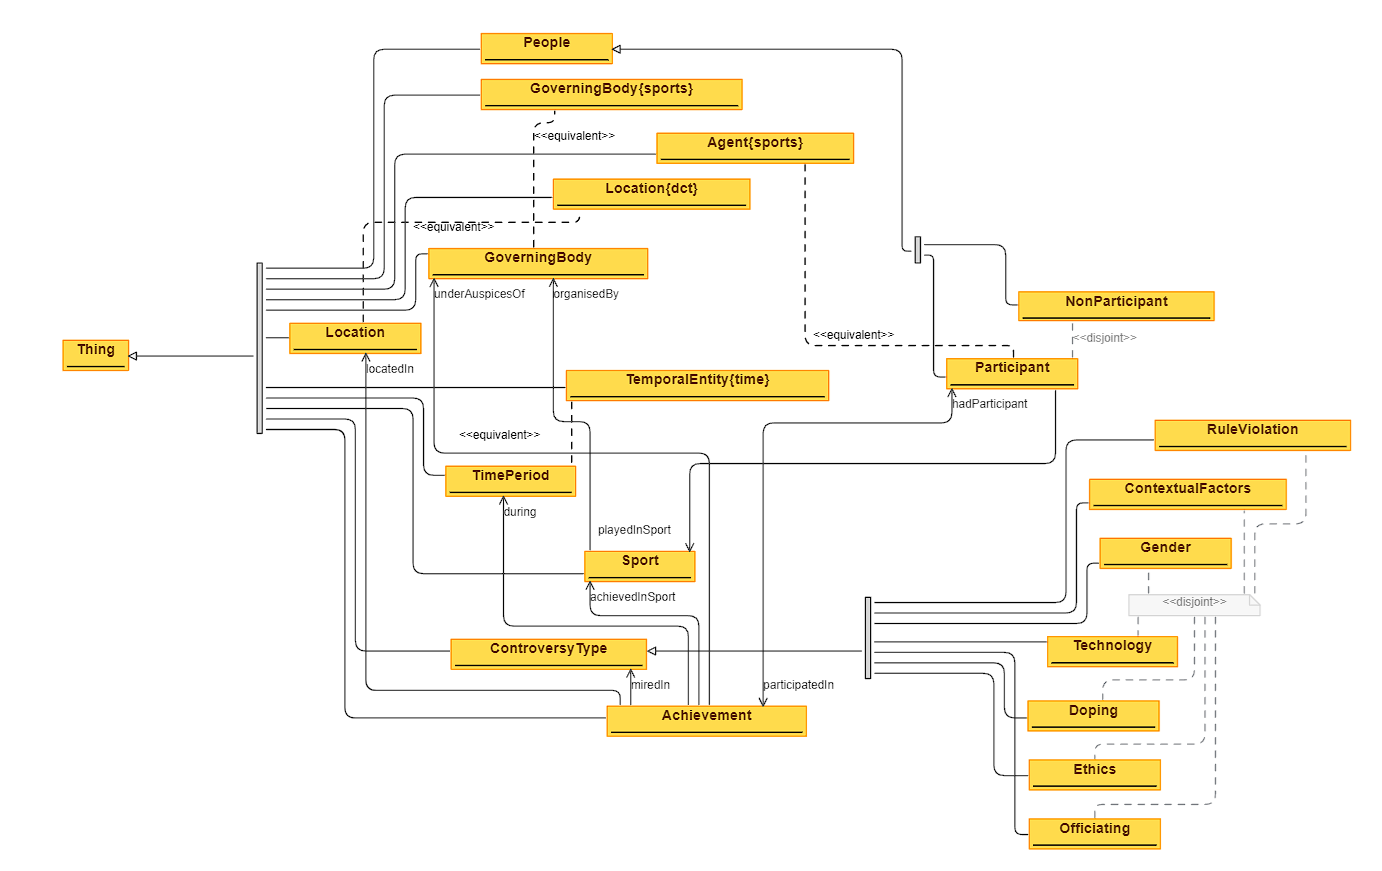
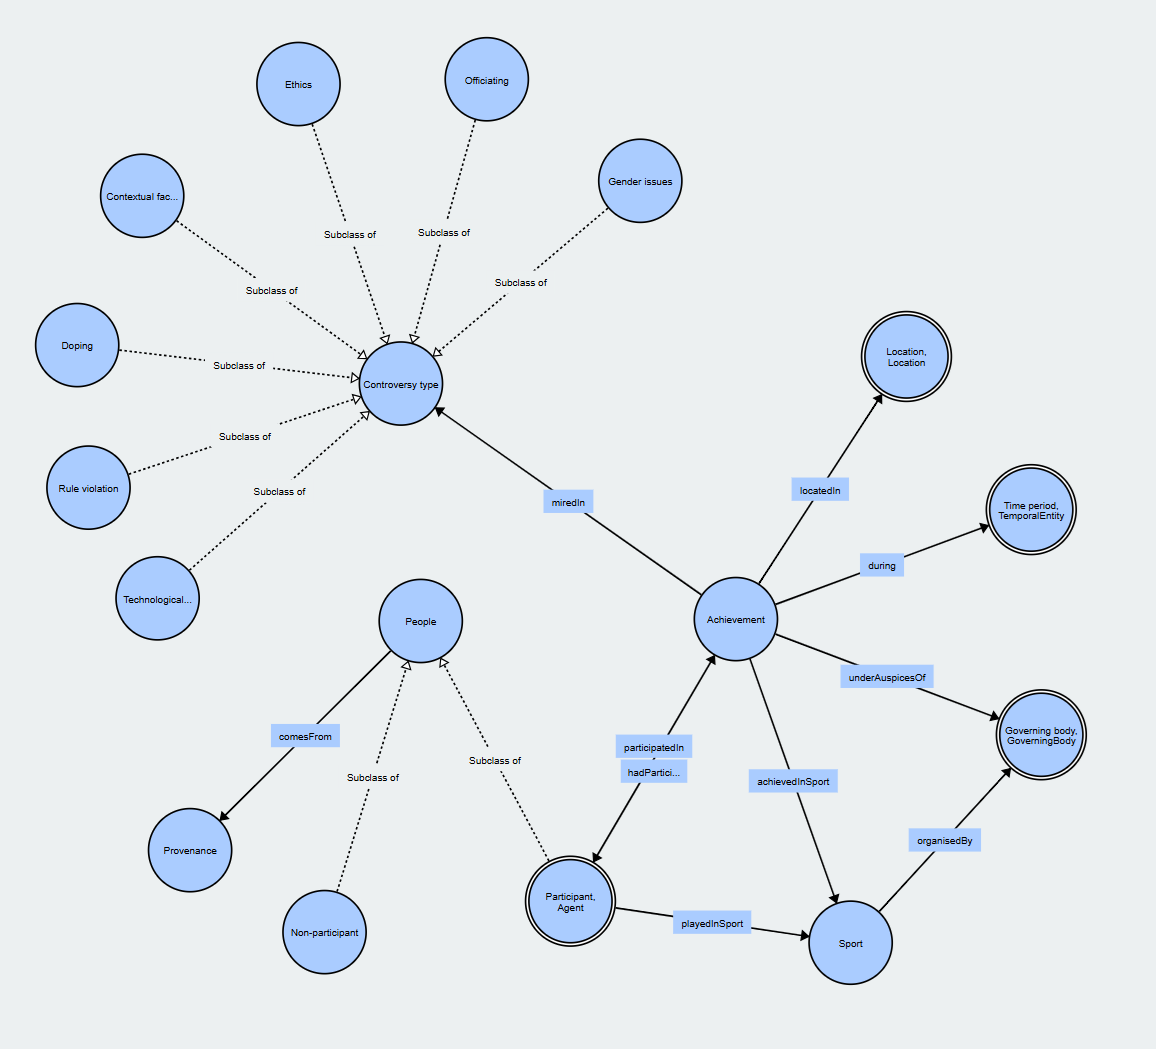
implemented discussed changes to ontology, new diagram and links because the old website died in the meantime

diff --git a/index.html b/index.html
@@ -343,6 +343,8 @@
                             <p>Represents the singular physical location (if possible), or a broader geographical context, where an <b>Achievement</b> has taken place.</p>
                             <ul><li><b>TimePeriod</b></li></ul>
                             <p>Represents the timeframe, when an <b>Achievement</b> has taken place.</p>
+                            <ul><li><b>Provenance</b></li></ul>
+                            <p>Represents the provenance of <b>People</b>.</p>
                             <h6>Properties</h6>
                             <ul><li><b>hadParticipant (Achievement -> Participant)</b></li></ul>
                             <p>Links a sporting accomplishment to a sportsperson or sportspeople.</p>
@@ -362,9 +364,11 @@
                             <p>Links a sporting accomplishment to a geographical location or region it was achieved in.</p>
                             <ul><li><b>during (Achievement -> TimePeriod)</b></li></ul>
                             <p>Links a sporting accomplishment to a time period it was achieved in.</p>
+                            <ul><li><b>comesFrom (People -> Provenance)</b></li></ul>
+                            <p>Links a participant or a non-participant to a place, from which they come from.</p>
                             <h5>2.1.3 - Basic ontology creation</h5>
                             <img src="img/ontologyv1.png" alt="Visualisation of the first-level ontology" height="97%" width="97%">
-                            <p> Visualisation also available <a target="_blank" href="http://owlgred.lumii.lv/online_visualization/zwaw">here</a>. The corresponding prefixes are:<br>
+                            <p> Visualisation also available <a target="_blank" href="https://service.tib.eu/webvowl/#iri=https://raw.githubusercontent.com/krzywonos/asterisks-in-sports/refs/heads/main/ontologies/asterisksinsports.rdf">here</a>. The corresponding prefixes are:<br>
                             <sub>: <i>http://www.semanticweb.org/ontologies/2024/asterisksinsports</i></sub><br>
                             <sub>dct: <i>http://purl.org/dc/terms/</i></sub><br>
                             <sub>sports: <i>https://sportschema.org/ontologies/main/</i></sub><br>
@@ -384,40 +388,16 @@
                                 PREFIX time: &lt;https://www.w3.org/2006/time#&gt;
                                 PREFIX xsd: &lt;http://www.w3.org/2001/XMLSchema#&gt;
                             </pre>
-                            <p><b>What factors lead to positive attitudes to a controversial sporting achievement, e.g. Florence Griffith-Jones' 100m women's world record?</b></p>
-                            <pre>
-                                SELECT ?viewpoint ?context
-                                WHERE {
-                                    ?person ais:hasViewpoint ?viewpoint.
-                                    ?viewpoint ais:determines ais:positiveAttitude.
-                                    ?viewpoint ais:towards ?achievement.
-                                    ?achievement ais:isInfluenced ?context.
-                                    ?context ais:influences ais:positiveAttitude.
-                                    ?achievement ais:named "100m women's world record"^^xsd:string.
-                                }
-                            </pre>
-                            <p><b>What factors lead to negative attitudes to a controversial sporting achievement, e.g. Zagłębie's 2006/07 Polish championship?</b></p>
-                            <pre>
-                                SELECT ?viewpoint ?context
-                                WHERE {
-                                    ?person ais:hasViewpoint ?viewpoint.
-                                    ?viewpoint ais:determines ais:negativeAttitude.
-                                    ?viewpoint ais:towards ?achievement.
-                                    ?viewpoint ais:isInfluenced ?context.
-                                    ?context ais:influences ais:negativeAttitude.
-                                    ?achievement ais:named "100m women's world record"^^xsd:string.
-                                }
-                            </pre>
                             <p><b>What factors lead to changes in attitude towards a controversial sporting achievements, e.g. Bjarne Riis' 1996 TdF win?</b></p>
                             <pre>
                                 SELECT ?attitudeShift ?viewpoint ?context
                                 WHERE {
                                     ?person ais:hasViewpoint ?viewpoint.
                                     ?viewpoint ais:characterisedBy ?attitudeShift.
-                                    ?viewpoint ais:determines ais:negativeAttitude.
+                                    ?viewpoint ais:determines ais:secondaryAttitude.
                                     ?viewpoint ais:towards ?achievement.
                                     ?viewpoint ais:isInfluenced ?context.
-                                    ?context ais:influences ais:negativeAttitude.
+                                    ?context ais:influences ais:secondaryAttitude.
                                     ?achievement ais:named "100m women's world record"^^xsd:string.
                                 }
                             </pre>
@@ -425,7 +405,7 @@
                             <h6>Classes</h6>
                             <ul><li><b>Viewpoint</b></li></ul>
                             <p>Represents a perspective of an individual towards a sporting achievement.</p>
-                            <ul><li><b>PositiveAttitude/NegativeAttitude</b></li></ul>
+                            <ul><li><b>PrimaryAttitude/SecondaryAttitude</b></li></ul>
                             <p>Represent different outlooks towards a sporting achievement.</p>
                             <ul><li><b>Context</b></li></ul>
                             <p>Represents context and a plethora of external factors (e.g. media coverage, personal knowledge, cultural and moral values) influencing outlooks on a sporting achievement.</p>
@@ -434,13 +414,13 @@
                             <h6>Properties</h6>
                             <ul><li><b>hasViewpoint (People -> Viewpoint)</b></li></ul>
                             <p>Links a person to their viewpoint on a sporting achievement.</p>
-                            <ul><li><b>hasAttitude (People -> PositiveAttitude/NegativeAttitude)</b></li></ul>
+                            <ul><li><b>hasAttitude (People -> PrimaryAttitude/SecondaryAttitude)</b></li></ul>
                             <p>Links a person to their viewpoint towards a sporting achievement.</p>
                             <ul><li><b>isInfluenced (Viewpoint -> Context)</b></li></ul>
                             <p>Links a person's viewpoint on a sporting achievement to personal context.</p>
-                            <ul><li><b>influences (Context -> PositiveAttitude/NegativeAttitude)</b></li></ul>
+                            <ul><li><b>influences (Context -> PrimaryAttitude/SecondaryAttitude)</b></li></ul>
                             <p>Links personal context to a person's attitude towards a sporting achievement.</p>
-                            <ul><li><b>determines(Viewpoint -> PositiveAttitude/NegativeAttitude)</b></li></ul>
+                            <ul><li><b>determines(Viewpoint -> PrimaryAttitude/SecondaryAttitude)</b></li></ul>
                             <p>Links a person's viewpoint on a sporting achievement to their attitude towards it.</p>
                             <ul><li><b>towards(Viewpoint -> Achievement)</b></li></ul>
                             <p>Links a person's viewpoint towards a sporting achievement to said sporting achievement.</p>
@@ -478,13 +458,13 @@
                             <table class="table-dark">
                                 <thead>
                                     <tr>
-                                        <th scope="col">PositiveAttitude/NegativeAttitude</th>
+                                        <th scope="col">PrimaryAttitude/SecondaryAttitude</th>
                                         <th scope="col">Attitude</th>
                                     </tr>
                                 </thead>
                                 <tbody>
                                     <tr>
-                                        <td>Stance of the (non-)participants to a sporting achievement. While neutral attitude could be a valid third option, we believe that in practice, it would lead to the same viewpoint as a positive attitude.</td>
+                                        <td>Stance of the (non-)participants to a sporting achievement. It could be represented as PositiveAttitude/NegativeAttitude instead, but we believe that differentiation into Primary and Secondary would be better suited to accomodate AttitudeShift.</td>
                                         <td>Stance of the conceptualisers regarding a perceived eventuality through a specific lens.</td>
                                     </tr>
                                 </tbody>
